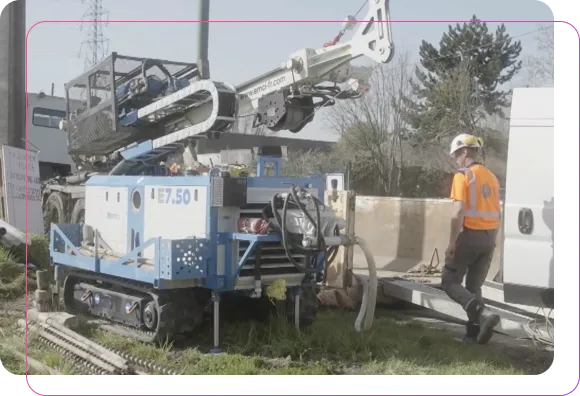
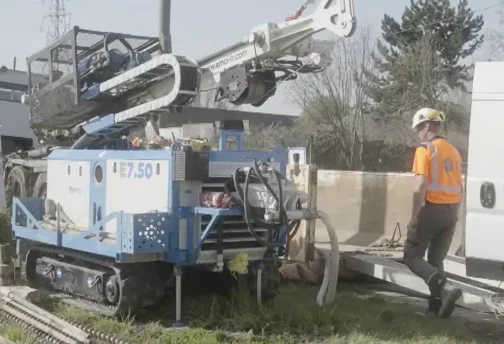
Audit images : corrige bugs et remplace par des visuels de meilleure qualité
- t-fondation : remplacement du collage par une vraie photo de reconnaissance de fondations (haute déf, ~/Documents)
- atelier-750 : suppression du cadre rose incrusté (image recadrée, modèle 7.50 confirmé)
- Section logiciels : illustration remplacée par une vraie capture d'écran d'un poste SAFE (SAFE-2)
- Suppression du logo orphelin logo-safe-geotechnique.jpeg (non utilisé)

diff --git a/src/pages/Home.jsx b/src/pages/Home.jsx
@@ -41,7 +41,7 @@ import illIngenierie from '../assets/illustrations/ill-ingenierie.svg';
 import illSecurite from '../assets/illustrations/ill-securite.svg';
 import illPourquoi from '../assets/illustrations/ill-pourquoi.svg';
 import illMethode from '../assets/illustrations/ill-methode.svg';
-import illLogiciels from '../assets/illustrations/ill-logiciels.svg';
+import logicielEcran from '../assets/images/logiciel-ecran.webp';
 
 const services = [
   { icon: 'drill', title: 'Sondage', to: '/sondage',
@@ -300,7 +300,9 @@ export default function Home() {
               </p>
             </Reveal>
             <Reveal delay={120} className="hidden lg:block">
-              <img src={illLogiciels} alt="" aria-hidden="true" className="w-full max-w-[380px] ml-auto" loading="lazy" />
+              <figure className="ml-auto max-w-[420px] rounded-xl2 overflow-hidden shadow-sfmd border border-line">
+                <img src={logicielEcran} alt="Logiciel d'analyse géotechnique sur un poste de travail SAFE" className="w-full object-cover aspect-[4/3]" loading="lazy" />
+              </figure>
             </Reveal>
           </div>
           <div className="grid md:grid-cols-3 border-t border-line">